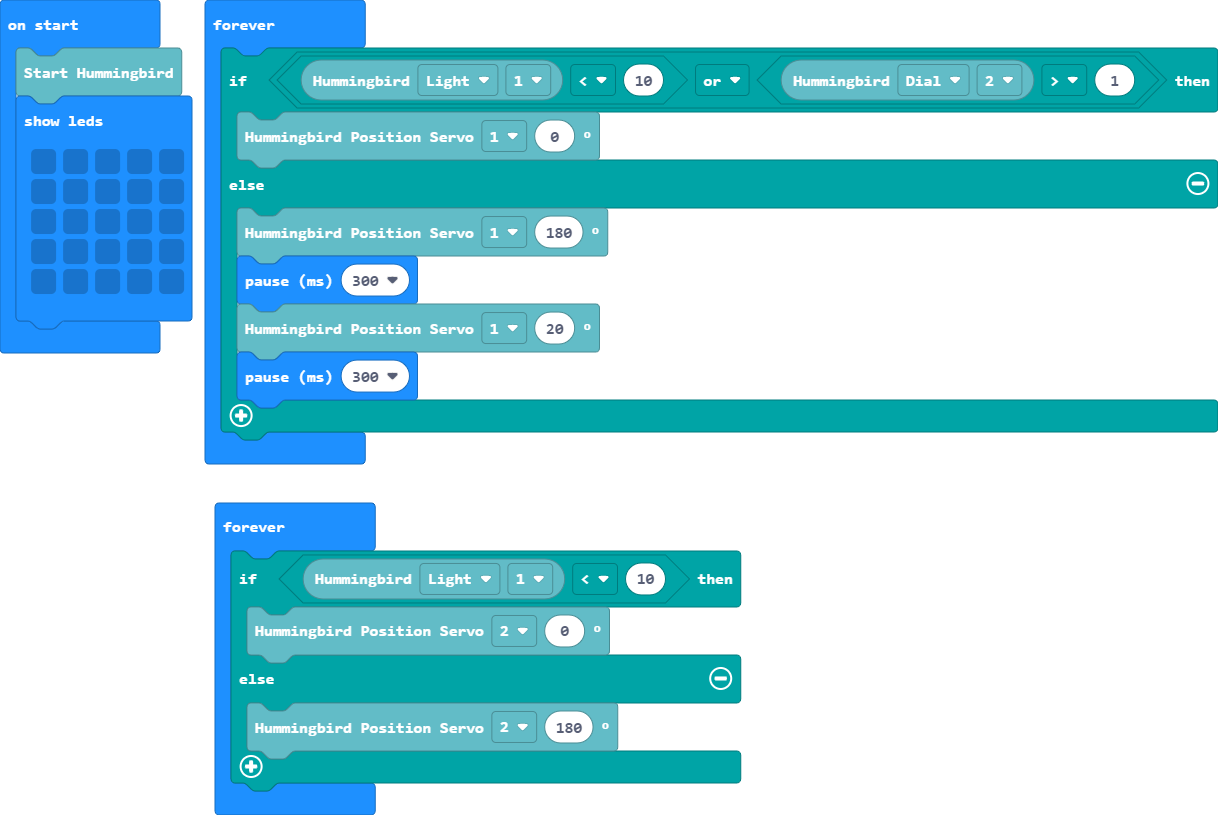
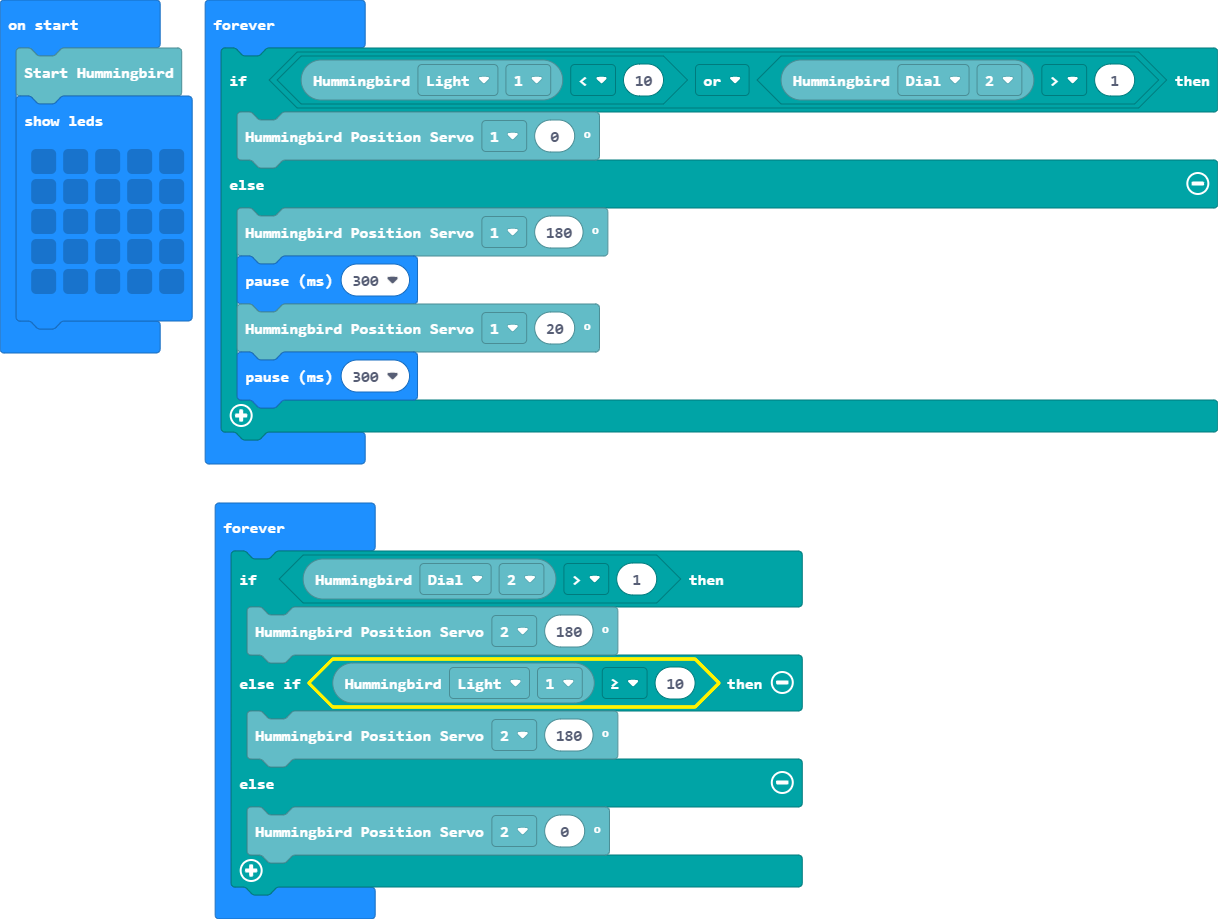
Update main.blocks, main.ts

diff --git a/main.ts b/main.ts
@@ -17,9 +17,11 @@ basic.forever(function () {
     }
 })
 basic.forever(function () {
-    if (hummingbird.getSensor(SensorType.Light, ThreePort.One) < 10) {
-        hummingbird.setPositionServo(FourPort.Two, 0)
-    } else {
+    if (hummingbird.getSensor(SensorType.Dial, ThreePort.Two) > 1) {
         hummingbird.setPositionServo(FourPort.Two, 180)
+    } else if (hummingbird.getSensor(SensorType.Light, ThreePort.One) >= 10) {
+        hummingbird.setPositionServo(FourPort.Two, 180)
+    } else {
+        hummingbird.setPositionServo(FourPort.Two, 0)
     }
 })
